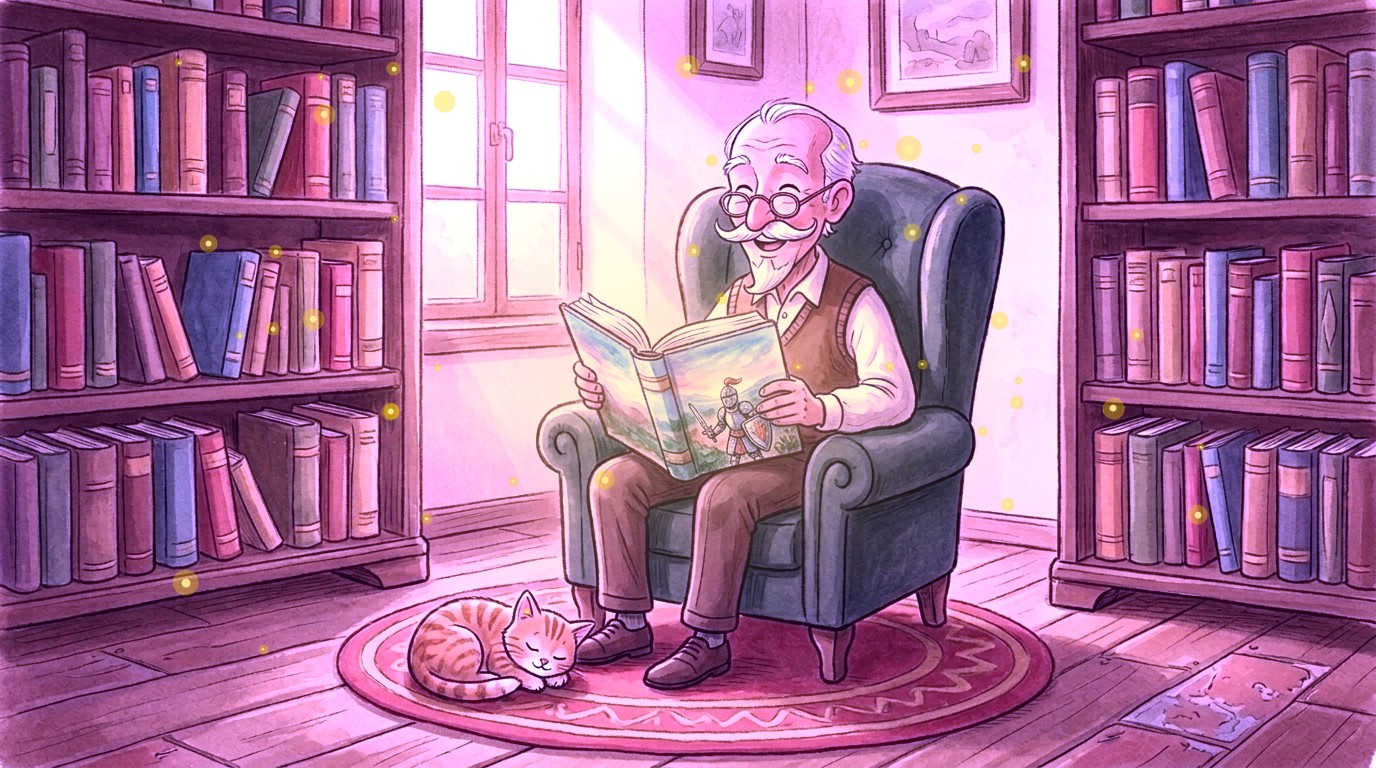
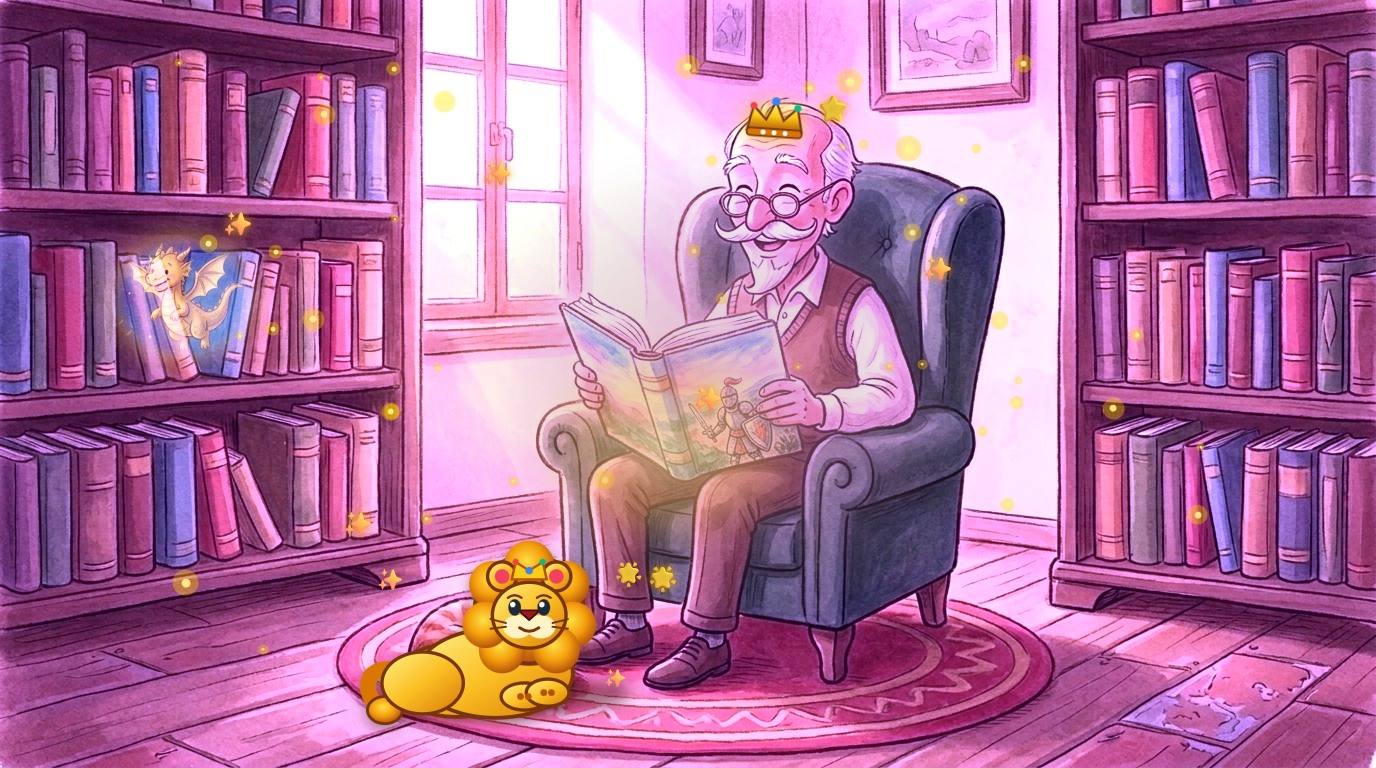
feat(dom-quixote): transforma gatinho em leao guardiao na pagina 2, otimiza layout tablet e cria AGENTS.md

diff --git a/dom-quixote/parte-1.html b/dom-quixote/parte-1.html
@@ -52,7 +52,7 @@
             border: 6px solid #D97706;
             height: calc(100vh - 10px);
             height: calc(100dvh - 10px);
-            max-height: 900px;
+            max-height: 100%;
             box-shadow:
                 0 25px 60px -15px rgba(0, 0, 0, 0.75),
                 inset 0 0 35px rgba(217, 119, 6, 0.12),
@@ -64,6 +64,13 @@
                 border-width: 8px;
                 height: calc(100vh - 20px);
                 height: calc(100dvh - 20px);
+                max-height: 100%;
+            }
+        }
+
+        @media (min-width: 1024px) and (orientation: landscape) {
+            .storybook-frame {
+                max-height: 900px;
             }
         }
 
@@ -214,16 +221,12 @@
             100% { transform: translate(var(--tx), var(--ty)) scale(1.35) rotate(25deg); opacity: 0; }
         }
 
-        /* Transição suave entre páginas */
+        /* Exibição e ocultação de páginas no leitor */
         .page-slide {
-            transition: opacity 0.3s ease, transform 0.3s ease;
+            opacity: 1;
         }
         .page-hidden {
-            opacity: 0;
-            pointer-events: none;
-            position: absolute;
-            inset: 0;
-            transform: scale(0.97);
+            display: none !important;
         }
 
         #pages-viewport {
@@ -377,9 +380,9 @@
                     <div id="drop-zone-1" class="drop-zone-target relative w-full aspect-[16/9] rounded-2xl overflow-hidden border-2 border-amber-400 shadow-md bg-slate-900 flex items-center justify-center">
                         <img id="scene-bg-1" src="./imagens/p1-real.jpg" alt="Sala de Leitura de Alonso Quixano" class="w-full h-full object-contain transition-all duration-300" />
 
-                        <!-- Gatinho tocável -->
-                        <div onclick="tapSceneHotspot(this, event, 'GATINHO', '🐱')"
-                             class="scene-hotspot" style="left: 26%; top: 73%; width: 18%; height: 22%;" title="Tocar no Gatinho"></div>
+                        <!-- Gatinho / Leão Guardião tocável -->
+                        <div onclick="tapCatLionHotspot(event)"
+                             class="scene-hotspot" style="left: 23%; top: 68%; width: 24%; height: 28%;" title="Tocar no Gatinho ou Leão Guardião"></div>
                     </div>
 
                     <!-- Bandeja de Cartões de Alfabetização Arrastáveis (LIVROS) -->
@@ -882,7 +885,7 @@
                 realImg: "./imagens/p1-real.jpg",
                 imagImg: "./imagens/p1-imag.jpg",
                 realBadge: "👓 Lente da Realidade: A Sala de Leitura do Vovô Alonso",
-                imagBadge: "✨ Lente da Imaginação: Dragões, Castelos e Magia!"
+                imagBadge: "✨ Lente da Imaginação: O Leão Guardião e Mundos Mágicos!"
             },
             {
                 realImg: "./imagens/p2-real.jpg",
@@ -1316,6 +1319,11 @@
             tapSceneHotspot(null, event, isImag ? 'DULCINEIA' : 'ALDONZA', isImag ? '👸' : '🌾');
         }
 
+        function tapCatLionHotspot(event) {
+            const isImag = lensImaginationState[1];
+            tapSceneHotspot(null, event, isImag ? 'LEÃO GUARDIÃO' : 'GATINHO', isImag ? '🦁' : '🐱');
+        }
+
         function handleBookDrop(bookId, coords) {
             readBooksSet.add(bookId);
             const sceneImg = document.getElementById('scene-bg-1');
@@ -1528,6 +1536,16 @@
             renderPaginationDots();
             initDraggableCards();
             document.getElementById('btn-prev').disabled = true;
+
+            // Suporte a URL params para navegação direta e testes automatizados (?page=1&imag=1)
+            const params = new URLSearchParams(window.location.search);
+            const p = parseInt(params.get('page'));
+            if (!isNaN(p) && p >= 0 && p < totalPages) {
+                goToPage(p);
+                if (params.get('imag') === '1' || params.get('imag') === 'true') {
+                    toggleLens(p, null, true);
+                }
+            }
         };
     </script>
 </body>

diff --git a/AGENTS.md b/AGENTS.md
@@ -1,0 +1,179 @@
+# AGENTS.md — Memória de Arquitetura, UX e Protocolos Operacionais
+## Coleção Clássicos Vivos: Livros Interativos Infantis para Tablet
+
+Este documento consolida a memória arquitetural, os princípios pedagógicos, as regras de design de interface, o fluxo de ativos visuais e os protocolos de automação do projeto **Clássicos Vivos**. Ele serve como guia definitivo para agentes de IA e desenvolvedores que assumirem o projeto em sessões futuras.
+
+---
+
+## 1. Visão Geral e Propósito
+
+- **Público-Alvo**: Crianças em fase de alfabetização e letramento (5 a 8 anos).
+- **Proposta Pedagógica**: Aproximar as crianças das maiores obras-primas da literatura universal através de uma experiência interativa, sensorial, visualmente rica e de toque acolhedor.
+- **Obra Piloto**: *Dom Quixote de La Mancha - Parte 1: O Cavaleiro da Super Imaginação*, adaptado diretamente da obra de Miguel de Cervantes.
+- **Diretriz de Dispositivo**: **Tablet-First** (iPad, Samsung Galaxy Tab). Dimensões alvo prioritárias:
+  - **Tablet Retrato (Portrait)**: 800 × 1280 px
+  - **Tablet Paisagem (Landscape)**: 1280 × 800 px
+  - Áreas mínimas de toque (touch targets): **≥ 48 × 48 px** (idealmente 56–64 px com cantos arredondados).
+
+---
+
+## 2. Arquitetura Técnica & Frontend
+
+O projeto adota uma filosofia **Zero-Build / Single-File Web App**, garantindo máxima portabilidade, carregamento ultrarrápido em dispositivos móveis e execução off-line instantânea.
+
+### 2.1 Tecnologias Utilizadas
+- **HTML5 & CSS3 Moderno**: Estrutura semântica e layouts fluidos com CSS Grid e Flexbox.
+- **Tailwind CSS (via CDN)**: Utility-first para estilização ágil, responsiva e consistente.
+- **Phosphor Icons (via CDN)**: Iconografia amigável, legível e suave para botões infantis.
+- **Web Audio API Procedural**: Todos os efeitos sonoros (fanfarras de cavaleiro, arpeggios mágicos, cliques táteis de cartões de leitura, pops lúdicos) são sintetizados matematicamente via código (`AudioContext`), dispensando dependências de arquivos MP3/WAV externos pesados.
+- **Web Speech API (`pt-BR`)**: Síntese de voz nativa para leitura da página completa e para a pronúncia silábica pausada das palavras-chave em destaque.
+- **Pointer Events**: Eventos unificados (`pointerdown`, `pointermove`, `pointerup`) para drag-and-drop fluido compatível tanto com touchscreen/caneta quanto com mouse.
+
+### 2.2 Isolamento de Páginas e Navegação
+- **Eliminação de Ghosting/Bleed-Through**: Para alternar entre as 7 páginas do livro, as páginas inativas devem **obrigatoriamente** receber a regra:
+  ```css
+  .page-hidden {
+      display: none !important;
+  }
+  ```
+  *Nota*: O uso exclusivo de `opacity: 0` ou transições com `position: absolute` causa sangramento visual em capturas de tela e acionamento acidental de elementos ocultos.
+- **Parâmetros de URL para Testes e Navegação**:
+  O aplicativo suporta parâmetros de query na URL para inicialização direta em qualquer página e modo de lente:
+  ```text
+  ?page=N&imag=1
+  ```
+  - `page`: Índice da página de `0` a `6` (ex: `?page=1` para Capítulo 1).
+  - `imag=1` ou `imag=true`: Ativa imediatamente a **Lente da Imaginação** daquela página.
+
+### 2.3 Responsividade & Regras de Layout do Reader Frame
+Para garantir que o texto narrativo nunca seja cortado ou coberto pela barra de navegação inferior:
+- **Tablet Retrato**:
+  ```css
+  .storybook-frame {
+      height: calc(100vh - 10px);
+      height: calc(100dvh - 10px);
+      max-height: 100%; /* Permite expansão vertical no formato retrato */
+  }
+  ```
+- **Tablet Paisagem**:
+  ```css
+  @media (min-width: 1024px) and (orientation: landscape) {
+      .storybook-frame {
+          max-height: 900px; /* Mantém proporção harmônica no formato paisagem */
+      }
+  }
+  ```
+
+---
+
+## 3. Diretrizes Pedagógicas e Limites de UX
+
+### 3.1 A Dupla Lente da Imaginação
+- Cada página oferece dois pontos de vista alternáveis pelo botão de lente:
+  1. **Lente da Realidade**: O mundo como ele é (Alonso Quixano idoso em sua poltrona; bacia de latão na cabeça; camponesa Aldonza; moinhos de vento na colina).
+  2. **Lente da Imaginação**: Como Dom Quixote enxerga com seus olhos poéticos (O rei em seu trono com dragões e um **leão guardião**; armadura dourada reluzente; Princesa Dulcineia do Toboso; gigantes descomunais agitando braços de vento).
+- **Consistência Textual**: O texto literário principal **não** é alterado ao trocar de lente; a cena visual é que se metamorfoseia, ensinando à criança a magia de ler e imaginar.
+
+### 3.2 Fronteira Rígida da Pronúncia Silábica (`speakWord`)
+- **Regra de Ouro**: A pronúncia silábica pausada (ex: `I-MA-GI-NA-ÇÃO`, `CA-VA-LEI-ROS`, `DRAGÕES`) aplica-se **exclusivamente** às palavras destacadas em caixa alta dentro do bloco de texto narrativo.
+- **Proibição de Poluição Visual**: **NUNCA** adicionar cartões com leitura silábica ou balões de fala extensos dentro do quadro da cena interativa ou nas áreas de drop. O quadro da cena deve permanecer limpo, focado na arte e na atmosfera visual.
+
+### 3.3 Interações na Cena (Hotspots)
+- Os toques em elementos da cena (personagens e animais) devem gerar feedback imediato:
+  - Som procedural sintetizado (Web Audio API).
+  - Erupção de partículas emoji flutuantes (`🐱`, `🦁`, `✨`, `⚔`, `🌾`, `👸`).
+  - Badge dinâmico de identificação lúdica no topo da cena.
+
+---
+
+## 4. Padrões de Ilustração e Gestão de Ativos
+
+### 4.1 Especificações Visuais das Imagens
+- **Proporção**: **16:9 estrita** (`aspect-[16/9]`, `object-contain`).
+- **Resolução Nativa**: 1376 × 768 px ou 1280 × 720 px.
+- **Formato de Entrega**: JPEG otimizado (~90-92% de qualidade) para carregamento instantâneo em tablets escolares.
+- **Estilo de Arte**: Aquarela e guache infantil caloroso, contornos suaves a lápis de cor, paleta inspirada na luz dourada da Espanha (Castela/La Mancha), atmosfera acolhedora e amigável.
+- **Texto nas Imagens**: **Zero texto impresso**. Nenhuma palavra em espanhol, inglês ou português deve vir embutida nas ilustrações. Todo texto deve ser renderizado em HTML para acessibilidade e síntese de voz.
+
+### 4.2 Âncoras Visuais dos Personagens
+- **Alonso Quixano / Dom Quixote**: Vovô bondoso de 60 anos, esguio e alto, pele bronzeada acolhedora, bochechas rosadas, olhos alegres e expressivos, bigode branco comprido e curvado, pequeno cavanhaque branco.
+  - *Realidade*: Armadura cinza remendada com pequenos pontos de ferrugem, bacia de latão dourado virada na cabeça como elmo.
+  - *Imaginação*: Armadura completa de ouro puro com brasão de leão no peito, elmo dourado com pluma carmesim esvoaçante, capa real de veludo vermelho.
+- **Rocinante**:
+  - *Realidade*: Cavalo marrom claro muito magricela e ossudo, cara meiga e doce, crina levemente bagunçada.
+  - *Imaginação*: Majestoso corcel de guerra branco como a neve, musculoso, crina dourada reluzente e sela real de veludo.
+- **Sancho Pança**: Camponês baixinho, rechonchudo, bochechas rosadas, sorriso afetuoso de orelha a orelha, túnica marrom simples e chapéu de palha, montado em um burrico cinza simpático.
+- **O Gatinho / Leão Guardião (Página 2 / Cap. 1)**:
+  - *Realidade*: Gatinho laranja fofo dormindo enroladinho no tapete vermelho e amarelo.
+  - *Imaginação*: Nobre **filhote de leão guardião dourado**, com juba farta em camadas, pequena coroa real e patinhas descansadas, personificando a passagem de Cervantes: *"até o gatinho da sala parecia um leão guardião!"*.
+
+### 4.3 Estrutura de Arquivos
+```text
+classicos-vivos/
+├── dom-quixote/
+│   ├── parte-1.html                        # Código-fonte principal do livro interativo
+│   ├── imagens/                            # Imagens 16:9 em produção (p0-real.jpg a p6-imag.jpg)
+│   ├── biblioteca/
+│   │   ├── cenarios/                       # Cenas espelhadas para carregamento modular
+│   │   ├── personagens/                    # SVGs de personagens (ex: leao-guardiao.svg)
+│   │   └── objetos/                        # SVGs de adereços (armadura, bacia, livros)
+│   └── PROMPTS_ILUSTRACOES.md              # Registro completo dos prompts de geração de imagem
+├── index.html                              # Hub inicial da coleção Clássicos Vivos
+├── AGENTS.md                               # Este documento de referência
+└── README.md                               # Documentação pública do repositório
+```
+- **Arquivo Espelho na Raiz**: O arquivo `dom_quixote_parte_1_livro_interativo_infantil.html` na raiz do workspace deve ser mantido sempre em sincronia idêntica com `classicos-vivos/dom-quixote/parte-1.html`.
+
+### 4.4 Resiliência contra Limites de Cotas de IA (429 Rate Limits)
+Quando modelos de geração de imagem por IA apresentarem `RESOURCE_EXHAUSTED (429)`, a estratégia comprovada é:
+1. Criar o elemento vetorial modular com SVG de alta fidelidade estilizado em aquarela/sombras na pasta `biblioteca/personagens/`.
+2. Fazer a composição na resolução exata de 1376 × 768 via headless Chrome e converter para JPEG 92%.
+3. Essa técnica garante independência de cotas externas e controle milimétrico da composição visual.
+
+---
+
+## 5. Protocolo de Testes Automatizados no Tablet
+
+Para validar a integridade da interface em tablets sem intervenção manual, utilize o comando headless do Google Chrome com as resoluções padronizadas.
+
+### 5.1 Teste em Tablet Retrato (Portrait: 800 × 1280)
+```powershell
+cmd /c '"C:\Program Files\Google\Chrome\Application\chrome.exe" --headless=new --screenshot="C:\Users\geral\Projetos\classicos_infantis_para_tablet\test-portrait.png" --window-size=800,1280 --hide-scrollbars "file:///C:/Users/geral/Projetos/classicos_infantis_para_tablet/classicos-vivos/dom-quixote/parte-1.html?page=1&imag=1"'
+```
+
+### 5.2 Teste em Tablet Paisagem (Landscape: 1280 × 800)
+```powershell
+cmd /c '"C:\Program Files\Google\Chrome\Application\chrome.exe" --headless=new --screenshot="C:\Users\geral\Projetos\classicos_infantis_para_tablet\test-landscape.png" --window-size=1280,800 --hide-scrollbars "file:///C:/Users/geral/Projetos/classicos_infantis_para_tablet/classicos-vivos/dom-quixote/parte-1.html?page=1&imag=1"'
+```
+
+### 5.3 Checklist de Inspeção Visual Automatizada
+- [ ] O cabeçalho com título e botão de áudio/música está alinhado e legível.
+- [ ] A cena em proporção 16:9 está centralizada sem distorção ou corte (`object-contain`).
+- [ ] O texto narrativo possui margem confortável e não é sobreposto pela barra de navegação inferior.
+- [ ] A barra de rodapé (Anterior, Paginação, Próxima) está fixada e com botões clicáveis.
+- [ ] O leão guardião e os efeitos mágicos estão nítidos na Lente da Imaginação da Página 2.
+
+---
+
+## 6. Procedimento Operacional de Entrega (Git & Deploy)
+
+O repositório oficial é hospedado em:
+`https://github.com/geraldotfilho/classicos-vivos.git` (Branch: `main`).
+
+Ao finalizar qualquer ciclo de desenvolvimento:
+1. **Sincronizar Arquivo Raiz**:
+   ```powershell
+   Copy-Item -Path classicos-vivos/dom-quixote/parte-1.html -Destination dom_quixote_parte_1_livro_interativo_infantil.html -Force
+   ```
+2. **Atualizar `AGENTS.md`** caso novos padrões arquiteturais tenham sido introduzidos.
+3. **Verificar Estado no Diretório Git**:
+   ```powershell
+   cd classicos-vivos
+   git status
+   ```
+4. **Adicionar, Commitar e Enviar**:
+   ```powershell
+   git add .
+   git commit -m "feat/fix: descrição clara e concisa das melhorias realizadas"
+   git push origin main
+   ```
